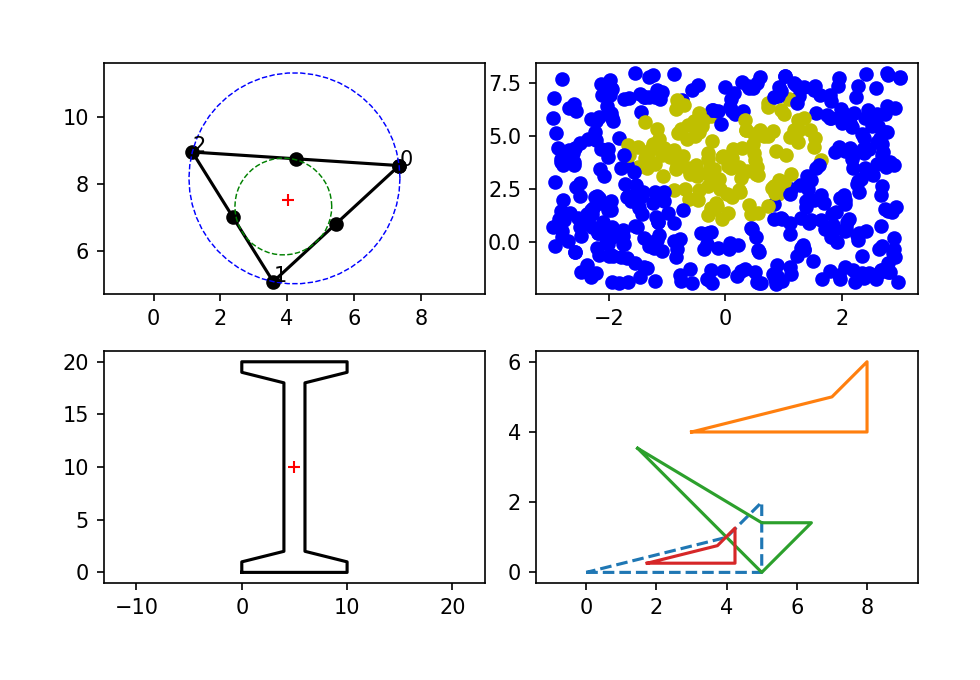
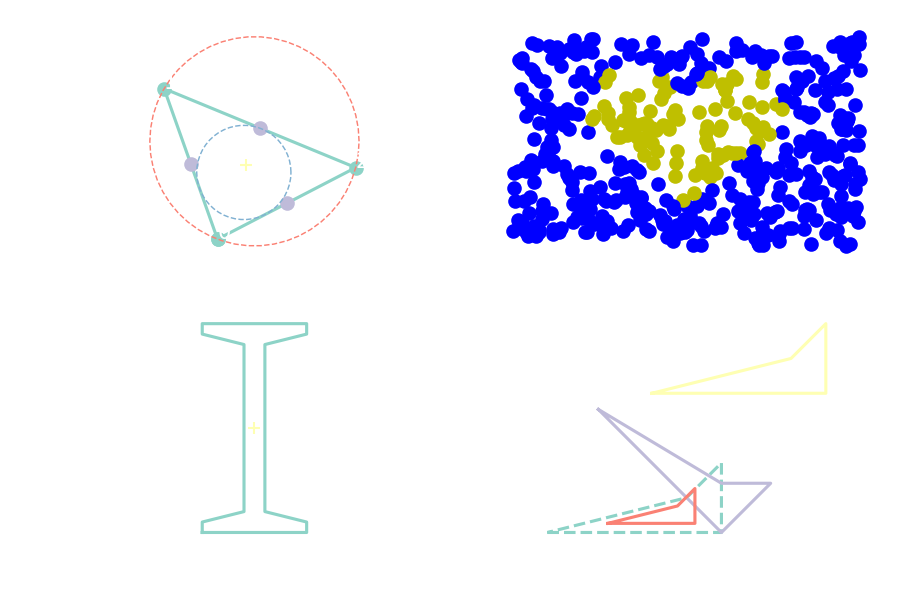
modified picture

Changed region(s): [[0.0622, 0.03, 0.9644, 0.48], [0.0622, 0.51, 0.9333, 0.9]]

diff --git a/examples.py b/examples.py
@@ -15,13 +15,14 @@ Vertices = np.random.rand(3,2)*10
 triangle = polygon(Vertices)
 
 plt.figure()
+plt.style.use('dark_background')
 
 plt.subplot(221)
-triangle.plot(numbers=True, c='k', marker='o', label='Polygon')
-plt.plot(triangle.CenterMass[0],    triangle.CenterMass[1],    "r+", label='center of mass')
-plt.plot(triangle.EdgesMiddle[:,0], triangle.EdgesMiddle[:,1], "ko")
-triangle.plotOutCircle(c='b', linestyle='--', linewidth=0.7, label='circumscribed circle')
-triangle.plotIncircle( c='g', linestyle='--', linewidth=0.7, label='incircle')
+triangle.plot(numbers=True, marker='o')
+plt.plot(triangle.CenterMass[0],    triangle.CenterMass[1], '+')
+plt.plot(triangle.EdgesMiddle[:,0], triangle.EdgesMiddle[:,1], 'o')
+triangle.plotOutCircle(linestyle='--', linewidth=0.7)
+triangle.plotIncircle(linestyle='--', linewidth=0.7)
 
 
 Vertices = [
@@ -69,8 +70,8 @@ Vertices = [
 beam = polygon(Vertices)
 
 plt.subplot(223)
-beam.plot(c='k', label='crosssection')
-plt.plot(beam.CenterMass[0], beam.CenterMass[1], "r+", label='center of mass')
+beam.plot()
+plt.plot(beam.CenterMass[0], beam.CenterMass[1], "+")
 plt.axis('equal')
 
 
@@ -82,12 +83,12 @@ Protated    = P.rotateClockwise(45,[5,0])
 Pscaled     = P / 2
 
 plt.subplot(224)
-P.plot(label='original', linestyle='--')
-Ptranslated.plot(label='translated')
-Protated.plot(label='rotated')
-Pscaled.plot(label='scaled')
+P.plot(linestyle='--')
+Ptranslated.plot()
+Protated.plot()
+Pscaled.plot()
 plt.axis('equal')
 
 plt.tight_layout()
-plt.savefig('examples.png')
+plt.savefig('examples.png', transparent=True)
 # plt.show()
